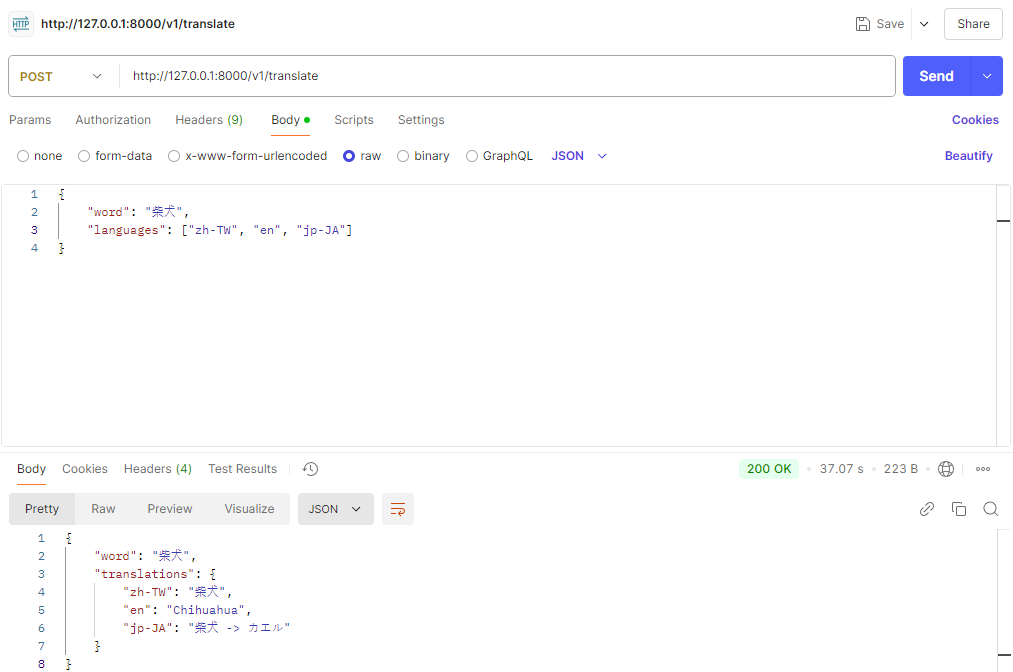
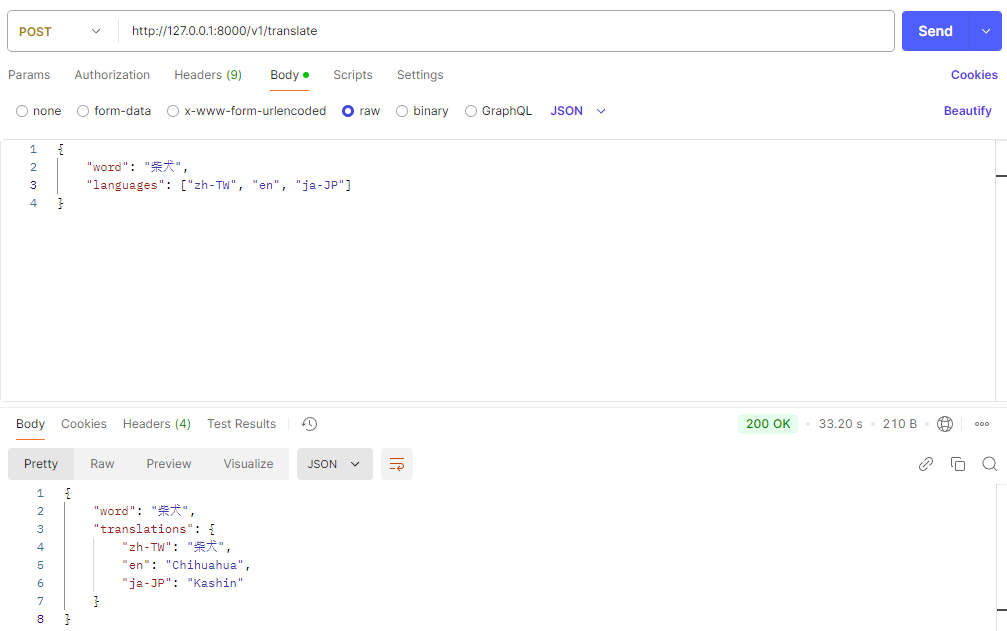
chore(img): update demo img

diff --git a/src/test_translate.py b/src/test_translate.py
@@ -6,7 +6,7 @@ from logger import logger
 if __name__ == "__main__":
     config = Config()
     url = f"{config.endpoint}/v1/translate"
-    payload = {"word": "柴犬", "languages": ["zh-TW", "en", "jp-JA"]}
+    payload = {"word": "柴犬", "languages": ["zh-TW", "en", "ja-JP"]}
 
     try:
         response = requests.post(url, json=payload)
